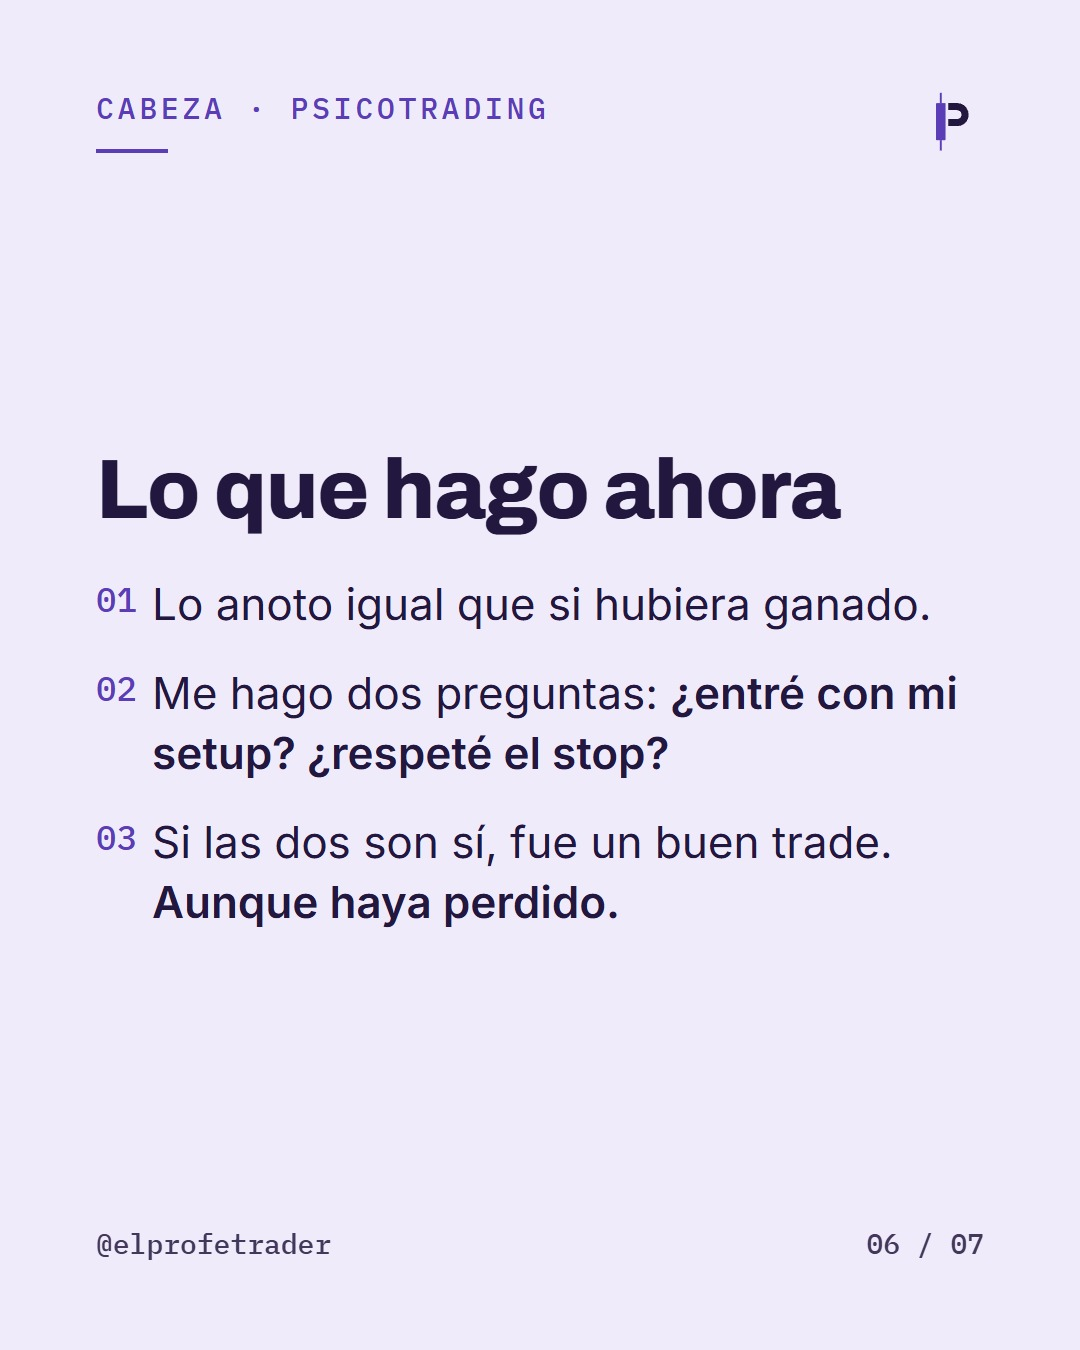
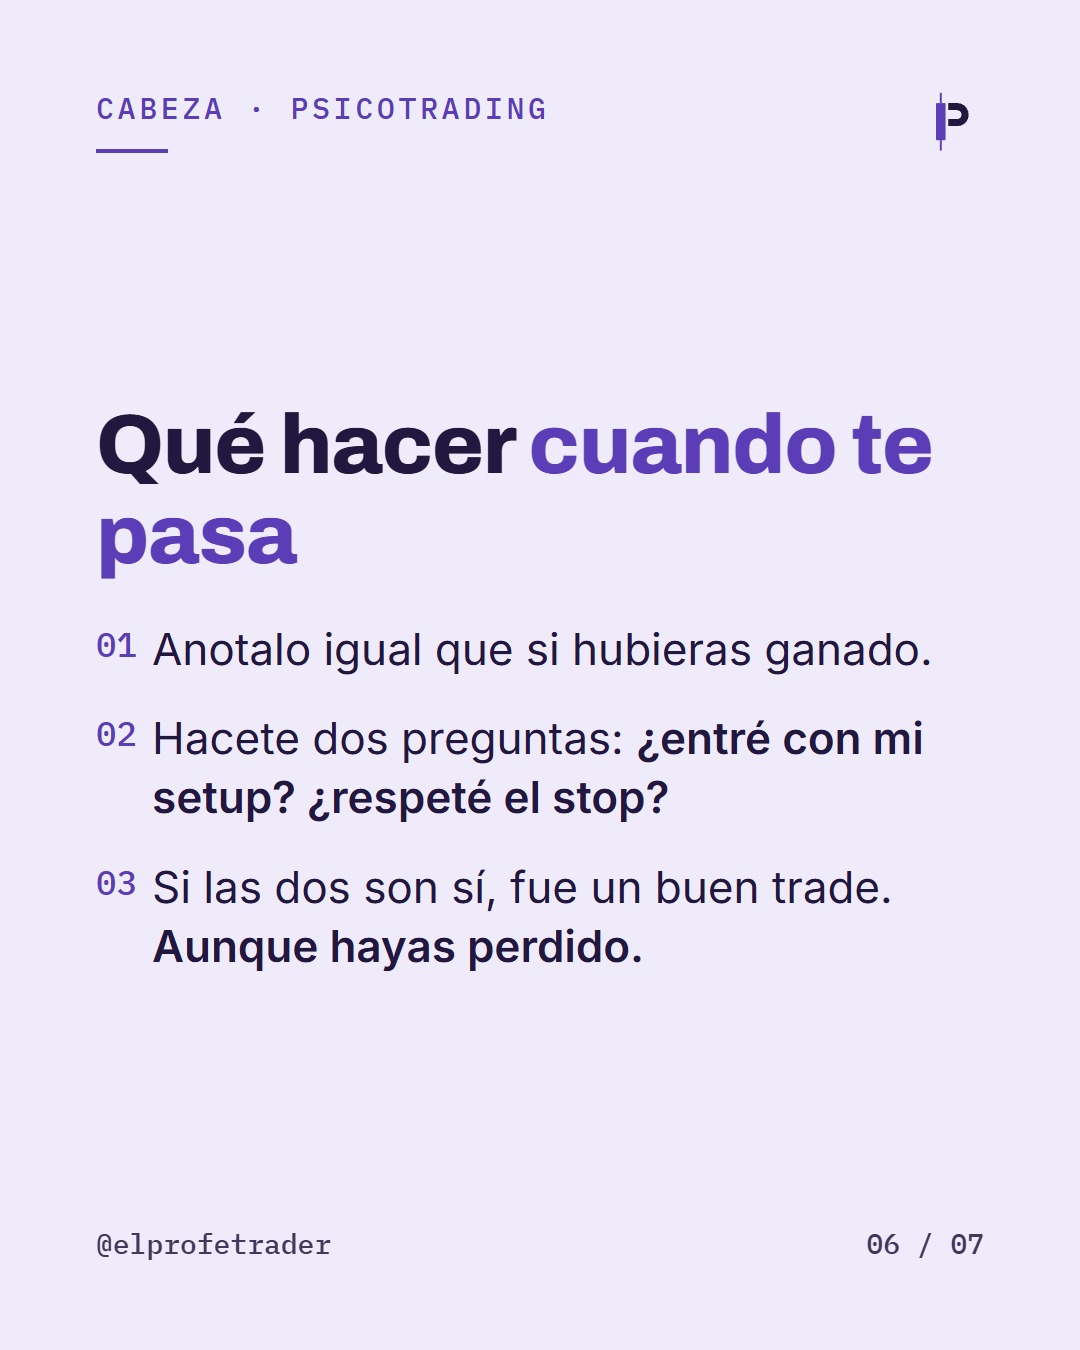
Robot tolerante a los atrasos de GitHub (varias corridas, decide por hora argentina, planilla aunque se atrase) + semana 2 sin reglas atribuidas que no están en el diario

Changed region(s): [[0.0917, 0.3111, 0.8861, 0.7156]]

diff --git a/publicar.py b/publicar.py
@@ -1,5 +1,6 @@
 """Publica en Instagram (@elprofetrader) el carrusel agendado para hoy (hora Argentina).
-Uso: python publicar.py [--tipo carrusel|reel]  -> publica lo de hoy de ese tipo si no se publicó (por defecto carrusel)
+Uso: python publicar.py --auto                     -> lo que toque según la hora (reel desde 12:30, carrusel desde 19:00)
+     python publicar.py [--tipo carrusel|reel]  -> publica lo de hoy de ese tipo si no se publicó (por defecto carrusel)
      python publicar.py --prueba ID             -> arma la publicación de ID sin publicarla (control)
 Un carrusel y un reel por día como máximo, cada uno en su horario."""
 import json, os, sys, time, urllib.request, urllib.parse, datetime
@@ -59,8 +60,21 @@ def main():
     if len(sys.argv) > 2 and sys.argv[1] == "--prueba":
         item = next(a for a in agenda if a["id"] == sys.argv[2])
         print("Prueba OK, publicación armada y lista (sin publicar):", armar(item)); return
+    ahora = datetime.datetime.utcnow() - datetime.timedelta(hours=3)  # hora Argentina
+    if "--auto" in sys.argv:
+        # GitHub atrasa los horarios programados (medido: de 3 a 5 horas). El robot corre varias veces y
+        # publica lo que corresponde según la hora real: reels desde las 12:30 y carruseles desde las 19:00.
+        if ahora.hour < 6:  # corrida atrasada que cayó de madrugada: cuenta como el final del día anterior
+            ahora = ahora.replace(hour=23, minute=59) - datetime.timedelta(days=1)
+        hm = ahora.hour * 60 + ahora.minute
+        for tipo in (["reel"] if hm >= 750 else []) + (["carrusel"] if hm >= 1140 else []):
+            publicar_tipo(agenda, tipo, ahora)
+        return
     tipo = sys.argv[sys.argv.index("--tipo") + 1] if "--tipo" in sys.argv else "carrusel"
-    hoy = (datetime.datetime.utcnow() - datetime.timedelta(hours=3)).date().isoformat()
+    publicar_tipo(agenda, tipo, ahora)
+
+def publicar_tipo(agenda, tipo, ahora):
+    hoy = ahora.date().isoformat()
     hecho_p = os.path.join(AQUI, "publicado.json")
     hecho = json.load(open(hecho_p, encoding="utf-8"))
     pend = [a for a in agenda if a["fecha"] <= hoy and a["id"] not in hecho and a.get("tipo", "carrusel") == tipo]

diff --git a/planilla.py b/planilla.py
@@ -106,7 +106,13 @@ async def render(slides, base, chrome=None):
 
 def main():
     hoy = (datetime.datetime.now(datetime.timezone.utc).replace(tzinfo=None) - datetime.timedelta(hours=3)).date()
-    viernes = datetime.date.fromisoformat(sys.argv[1]) if len(sys.argv) > 1 else hoy
+    ahora = datetime.datetime.now(datetime.timezone.utc).replace(tzinfo=None) - datetime.timedelta(hours=3)
+    if len(sys.argv) > 1:
+        viernes = datetime.date.fromisoformat(sys.argv[1])
+    elif ahora.weekday() == 5 and ahora.hour < 6:
+        viernes = hoy - datetime.timedelta(days=1)  # GitHub se atrasó y ya es sábado de madrugada
+    else:
+        viernes = hoy
     if viernes.weekday() != 4:
         print("Hoy no es viernes: no hay planilla"); return
     pid = f"planilla-{viernes.isoformat()}"
